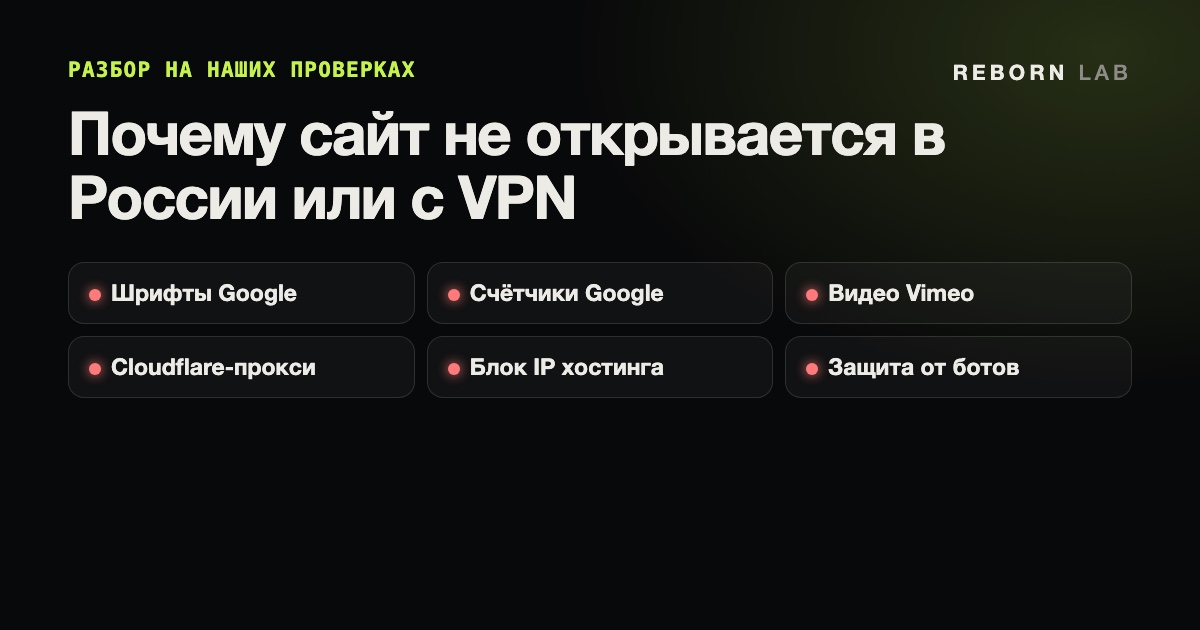
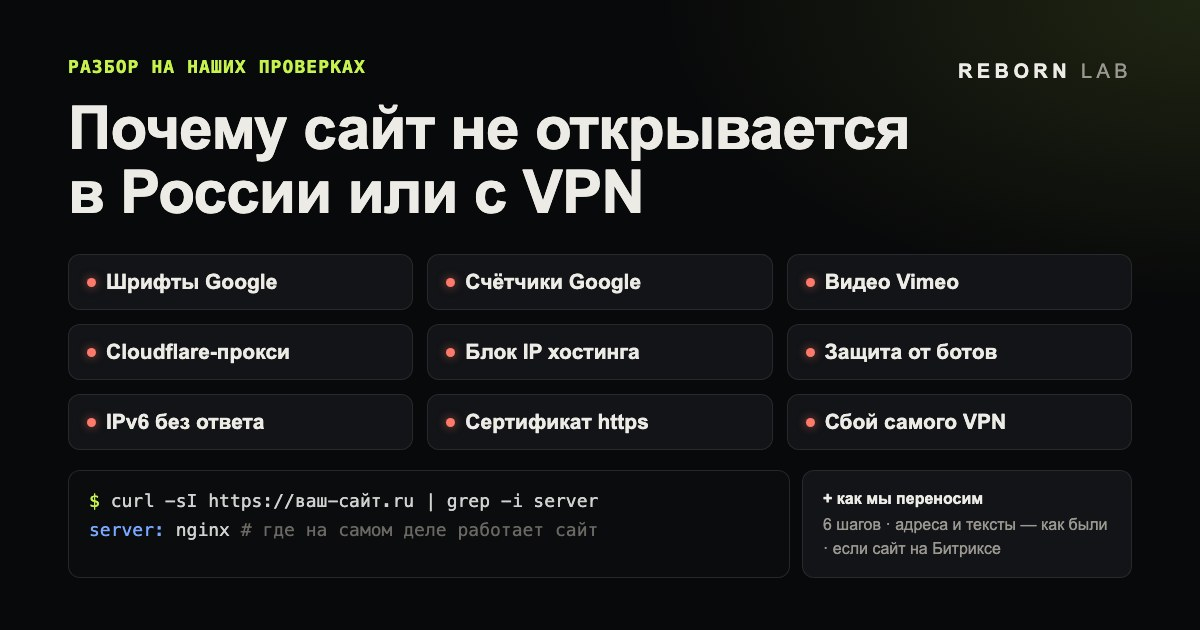
обложка статьи о доступности: заполнен низ (третий ряд причин, проверка curl, этапы)

diff --git a/drafts/dost-cover.html b/drafts/dost-cover.html
@@ -1,0 +1,30 @@
+<!doctype html><html lang="ru"><head><meta charset="utf-8">
+<!-- Обложка статьи pochemu-sajt-ne-otkryvaetsya-v-rossii (10.11.2026, вторая версия: заполнен низ) -->
+<style>
+*{box-sizing:border-box}body{margin:0;background:#000}
+.c{width:1200px;height:630px;position:relative;overflow:hidden;background:radial-gradient(900px 500px at 100% 0,rgba(198,242,78,.12),transparent 60%),#08090a;color:#edebe6;font-family:-apple-system,"Segoe UI",Roboto,Arial,sans-serif;padding:56px 68px}
+.k{font:700 18px "SF Mono",Menlo,monospace;letter-spacing:.06em;color:#c6f24e;text-transform:uppercase}
+.logo{position:absolute;right:68px;top:60px;font:700 20px -apple-system,Arial;letter-spacing:.22em}.logo span{color:#9a9890;font-weight:500}
+h1{font-size:60px;line-height:1.06;margin:20px 0 30px;font-weight:800;letter-spacing:-.01em}
+.g{display:grid;grid-template-columns:repeat(3,1fr);gap:14px}
+.g div{background:#121417;border:1px solid rgba(237,235,230,.1);border-radius:12px;padding:15px 18px;font-size:21px;font-weight:600;display:flex;align-items:center;gap:10px;white-space:nowrap}
+.g div:before{content:"";width:9px;height:9px;border-radius:50%;background:#ff7a6b;box-shadow:0 0 10px rgba(255,122,107,.6)}
+.g div.ok:before{background:#c6f24e;box-shadow:0 0 10px rgba(198,242,78,.6)}
+.t{margin-top:20px;display:flex;gap:12px;align-items:stretch}
+.term{flex:1;background:#0b0c0e;border:1px solid rgba(237,235,230,.12);border-radius:12px;padding:16px 20px;font:18px/1.6 "SF Mono",Menlo,monospace;color:#cfd3cf}
+.term .p{color:#c6f24e}.term .h{color:#7aa7ff}.term .d{color:#6a6862}
+.steps{width:330px;background:#121417;border:1px solid rgba(237,235,230,.1);border-radius:12px;padding:16px 20px;font-size:16px;color:#9a9890;line-height:1.5}
+.steps b{display:block;color:#edebe6;font-size:16px;margin-bottom:2px}
+</style></head><body><div class="c" id="cover">
+<div class="k">Разбор на наших проверках</div><div class="logo">REBORN <span>LAB</span></div>
+<h1>Почему сайт не открывается<br>в России или с VPN</h1>
+<div class="g">
+ <div>Шрифты Google</div><div>Счётчики Google</div><div>Видео Vimeo</div>
+ <div>Cloudflare-прокси</div><div>Блок IP хостинга</div><div>Защита от ботов</div>
+ <div>IPv6 без ответа</div><div>Сертификат https</div><div>Сбой самого VPN</div>
+</div>
+<div class="t">
+ <div class="term"><span class="p">$</span> curl -sI https://ваш-сайт.ru | grep -i server<br><span class="h">server:</span> nginx <span class="d"># где на самом деле работает сайт</span></div>
+ <div class="steps"><b>+ как мы переносим</b>6 шагов · адреса и тексты — как были · если сайт на Битриксе</div>
+</div>
+</div></body></html>
